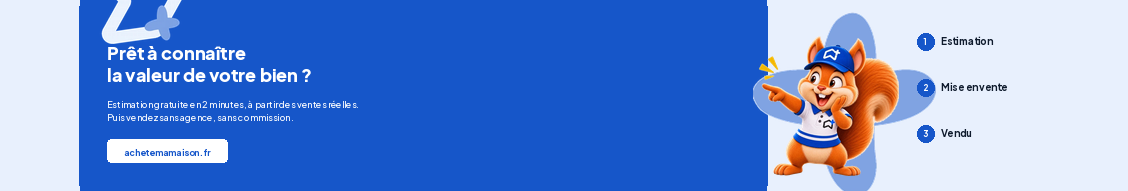
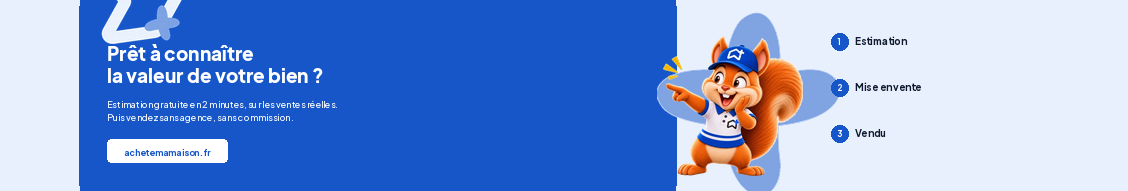
Rééquilibré : le bloc bleu commence plus à gauche et va plus loin, Noisette est au centre-droit et les 3 étapes occupent la droite ; il ne reste à gauche que la zone réservée à votre photo de profil.
- **Profil** : https://estimate-home.preview.emergentagent.com/api/public/media/linkedin-profil.png
- **Page entreprise** : https://estimate-home.preview.emergentagent.com/api/public/media/linkedin-page.png

(Mêmes liens qu'avant, les fichiers sont remplacés : si votre navigateur affiche l'ancienne version, rechargez la page avec Ctrl+F5.)

Emergent-Commit-Key: 2a60e42bda0e537587e2cb6da17e91c145c16a86d374836a74d69c13ddad2819

diff --git a/scripts/gen_linkedin_banner.py b/scripts/gen_linkedin_banner.py
@@ -28,17 +28,17 @@ def banner(W, H, profile_safe):
     k = H / 396  # échelle par rapport à la bannière profil
     # aplat bleu arrondi (comme le site), de la zone texte jusqu'à Noisette
     x0 = int(profile_safe + 40 * k)
-    x1 = int(W * 0.68)
+    x1 = int(W * 0.60)
     d.rounded_rectangle((x0, -int(140 * k), x1, H + int(140 * k)), radius=int(170 * k), fill=BRAND)
     # forme logo en haut de l'aplat
     ls = layer("d-logo-shape", int(190 * k))
     im.paste(ls, (x0 + int(30 * k), -int(60 * k)), ls)
     # textes
     tx = x0 + int(60 * k)
-    f1, f2, f3 = font("ExtraBold", int(38 * k)), font("Medium", int(19 * k)), font("Bold", int(19 * k))
+    f1, f2, f3 = font("ExtraBold", int(40 * k)), font("Medium", int(19 * k)), font("Bold", int(19 * k))
     d.text((tx, int(86 * k)), "Prêt à connaître", font=f1, fill=WHITE)
     d.text((tx, int(132 * k)), "la valeur de votre bien ?", font=f1, fill=WHITE)
-    d.text((tx, int(204 * k)), "Estimation gratuite en 2 minutes, à partir des ventes réelles.", font=f2, fill=WHITE)
+    d.text((tx, int(204 * k)), "Estimation gratuite en 2 minutes, sur les ventes réelles.", font=f2, fill=WHITE)
     d.text((tx, int(232 * k)), "Puis vendez sans agence, sans commission.", font=f2, fill=WHITE)
     bw, bh = int(250 * k), int(48 * k)
     d.rounded_rectangle((tx, int(290 * k), tx + bw, int(290 * k) + bh), radius=int(10 * k), fill=WHITE)
@@ -48,11 +48,11 @@ def banner(W, H, profile_safe):
     ph = int(380 * k)
     plus = layer("d-plus", ph)
     noi = layer("d-noisette", int(292 * k))
-    px0 = x1 - int(30 * k)
+    px0 = x1 - int(40 * k)
     im.paste(plus, (px0, (H - plus.height) // 2 + int(20 * k)), plus)
     im.paste(noi, (px0 + int(14 * k), (H - noi.height) // 2 + int(24 * k)), noi)
     # 3 étapes à droite
-    sx = px0 + plus.width - int(40 * k)
+    sx = px0 + plus.width - int(20 * k)
     if sx + int(250 * k) < W:
         for i, lab in enumerate(("Estimation", "Mise en vente", "Vendu")):
             yy = int((70 + i * 95) * k)
@@ -65,7 +65,7 @@ def banner(W, H, profile_safe):
 
 def main():
     os.makedirs(OUT, exist_ok=True)
-    banner(1584, 396, 400).save(f"{OUT}/linkedin-profil.png", optimize=True)
+    banner(1584, 396, 300).save(f"{OUT}/linkedin-profil.png", optimize=True)
     banner(1128, 191, 60).save(f"{OUT}/linkedin-page.png", optimize=True)
     print("->", f"{OUT}/linkedin-profil.png", f"{OUT}/linkedin-page.png")
 
